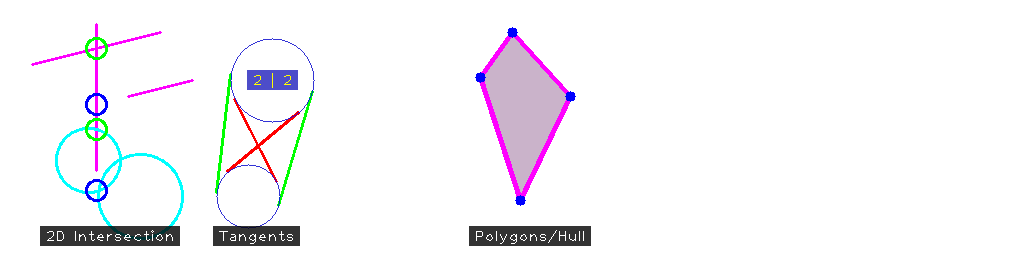
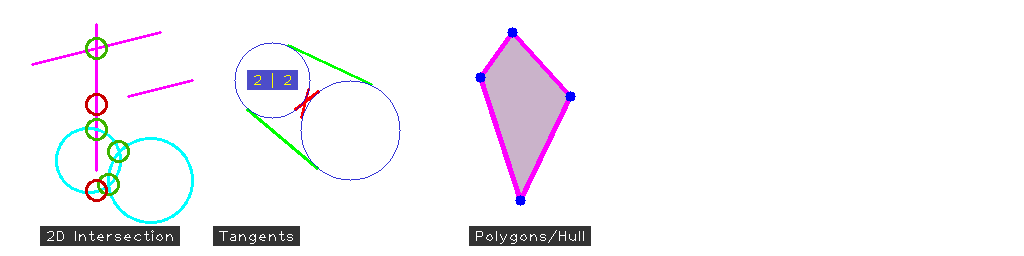
circle intersection & draw +/x markers

diff --git a/src/python3/bindings/math2d.cpp b/src/python3/bindings/math2d.cpp
@@ -93,14 +93,28 @@ py::tuple IsPointLeftOfLine(const cv::Vec2d &pt, const geo2d::Line2d &line)
 py::tuple IntersectionLineCircle(const geo2d::Line2d &line, const cv::Vec2d &center, double radius)
 {
   cv::Vec2d intersection1, intersection2;
-  int num_intersections = geo2d::IntersectionLineCircle(line, center, radius, intersection1, intersection2);
+  const int num_intersections = geo2d::IntersectionLineCircle(line, center, radius, intersection1, intersection2);
   if (num_intersections == 0)
     return py::make_tuple(num_intersections, py::none(), py::none());
   if (num_intersections == 1)
     return py::make_tuple(num_intersections, intersection1, py::none());
   if (num_intersections == 2)
     return py::make_tuple(num_intersections, intersection1, intersection2);
-  VCP_ERROR("Invalid number (" + std::to_string(num_intersections) + ") of intersection points!");
+  VCP_ERROR("VCP library returned invalid number (" + std::to_string(num_intersections) + ") of intersection points!");
+}
+
+
+py::tuple IntersectionCircleCircle(const cv::Vec2d &center1, const double radius1, const cv::Vec2d &center2, const double radius2)
+{
+  cv::Vec2d intersection1, intersection2;
+  const int num_intersections = geo2d::IntersectionCircleCircle(center1, radius1, center2, radius2, intersection1, intersection2);
+  if (num_intersections <= 0)
+    return py::make_tuple(num_intersections, py::none(), py::none());
+  if (num_intersections == 1)
+    return py::make_tuple(num_intersections, intersection1, py::none());
+  if (num_intersections == 2)
+    return py::make_tuple(num_intersections, intersection1, intersection2);
+  VCP_ERROR("VCP library returned invalid number (" + std::to_string(num_intersections) + ") of intersection points!");
 }
 
 
@@ -487,12 +501,26 @@ PYBIND11_MODULE(math2d, m)
 
 
   m.def("is_point_in_circle", &vpmg::IsPointInCircle,
-        "Checks if given point lies within (or exactly on) the circle.\n"
+        "Checks if given point lies within (or exactly on) the circle.\n\n"
         ":param pt: (x,y) point to test.\n"
         ":param center: (cx,cy) of the circle.\n"
-        ":param radius: radius of the circle."
+        ":param radius: radius of the circle.\n"
         ":return: tuple of two boolean flags: (in_or_on, exactly_on)",
         py::arg("pt"), py::arg("center"), py::arg("radius"));
+
+
+  m.def("intersection_circle_circle", &vpmg::IntersectionCircleCircle,
+        "Computes the intersection points of the two circles.\n\n"
+        ":param c1: center of first circle as tuple(x,y).\n"
+        ":param r1: radius of first circle as float.\n"
+        ":params c2, r2: center and radius of second circle.\n"
+        ":return: tuple(num_intersect, ip1, ip2), where num_intersect\n"
+        "         can be -1 (infinitely many), 0 (circles too far away or\n"
+        "         one inside the other), 1 (circles touch in one point) or\n"
+        "         2 (standard intersection); ip1 and ip2 are the intersection\n"
+        "         points as tuple(x,y) or None.",
+        py::arg("c1"), py::arg("r1"),
+        py::arg("c2"), py::arg("r2"));
 
 
   m.def("transverse_common_tangents_circles", &vpmg::TransverseCommonTangentsBetweenCircles,

diff --git a/src/cpp/vcp_imvis/drawing.cpp b/src/cpp/vcp_imvis/drawing.cpp
@@ -1231,6 +1231,83 @@ void DrawPoints(cv::Mat &image, const std::vector<cv::Point> &points, const cv::
 }
 
 
+void DrawCrosses(cv::Mat &image, const std::vector<cv::Point> &points, const std::vector<cv::Scalar> &colors,
+                 int diagonal, int line_width, int dash_length, double alpha, bool vertical)
+{
+  VCP_LOG_DEBUG("DrawCrosses() with different colors.");
+  VCP_CHECK(points.size() == colors.size());
+  VCP_CHECK(alpha >= 0.0 && alpha <= 1.0);
+
+  cv::Mat draw_on = image.clone();
+  const double dh = diagonal / 2.0;
+  for (size_t i = 0; i < points.size(); ++i)
+  {
+    cv::Point p1, p2, p3, p4;
+    if (vertical)
+    {
+      // Draw a plus sign, vertical line:
+      p1.x = points[i].x;
+      p1.y = static_cast<int>(points[i].y - dh);
+      p2.x = p1.x;
+      p2.y = static_cast<int>(points[i].y + dh);
+      // Horizontal line.
+      p3.x = static_cast<int>(points[i].y - dh);
+      p3.y = points[i].y;
+      p4.x = static_cast<int>(points[i].x + dh);
+      p4.y = p3.y;
+    }
+    else
+    {
+      // Draw a cross, top-left to bottom-right:
+      p1.x = static_cast<int>(points[i].x - dh);
+      p1.y = static_cast<int>(points[i].y - dh);
+      p2.x = static_cast<int>(points[i].x + dh);
+      p2.y = static_cast<int>(points[i].y + dh);
+      // Bottom-left to top-right.
+      p3.x = p1.x;
+      p3.y = p2.y;
+      p4.x = p2.x;
+      p4.y = p1.y;
+    }
+    if (dash_length > 0)
+    {
+      DrawDashedLine(p1, p2, colors[i], dash_length, line_width, image);
+      DrawDashedLine(p3, p4, colors[i], dash_length, line_width, image);
+    }
+    else
+    {
+      cv::line(image, p1, p2, colors[i], line_width);
+      cv::line(image, p3, p4, colors[i], line_width);
+    }
+  }
+
+  if (alpha < 1.0)
+    cv::addWeighted(draw_on, alpha, image, 1.0-alpha, 0.0, image);
+  else
+    image = draw_on;
+}
+
+
+void DrawCrosses(cv::Mat &image, const std::vector<cv::Point> &points,
+                 const cv::Scalar &color, int diagonal, int line_width,
+                 int dash_length, double alpha, bool vertical, bool flip_color_channels)
+{
+  VCP_LOG_DEBUG("DrawCrosses() with single color.");
+  std::vector<cv::Scalar> colors;
+  colors.reserve(points.size());
+  const bool valid_color = !((color[0] < 0.0) || (color[1] < 0.0) || (color[2] < 0.0));
+  for (size_t i = 0; i < points.size(); ++i)
+  {
+    const cv::Scalar ptcolor = valid_color ? color : kExemplaryColors[i % kExemplaryColorsSize];
+    if (flip_color_channels)
+      colors.push_back(cv::Scalar(ptcolor.val[2], ptcolor.val[1], ptcolor.val[0]));
+    else
+      colors.push_back(ptcolor);
+  }
+
+  DrawCrosses(image, points, colors, diagonal, line_width, dash_length, alpha, vertical);
+}
+
 void DrawEllipse(cv::Mat &image, const cv::RotatedRect &rect, const cv::Scalar &color, int line_width, double fill_opacity)
 {
   VCP_LOG_DEBUG("DrawEllipse()");

diff --git a/src/python3/bindings/imvis_cpp.cpp b/src/python3/bindings/imvis_cpp.cpp
@@ -269,7 +269,32 @@ cv::Mat DrawRotatedBoundingBoxes2D(const cv::Mat &image, const std::vector<vcp::
   return img;
 }
 
-//TODO make DrawCrosses()
+cv::Mat DrawCrosses(const cv::Mat &image, const std::vector<cv::Point> &points, const py::object &py_color,
+                   int diagonal, int line_width, int dash_length, bool vertical, double alpha)
+{
+  cv::Mat img = image.clone();
+
+  if (py::isinstance<py::list>(py_color))
+  {
+    const py::list list = py_color.cast<py::list>();
+    if (py::len(list) != points.size())
+      throw std::runtime_error("Lengths of points and corresponding colors doesn't match!");
+
+    std::vector<cv::Scalar> colors;
+    for (size_t i = 0; i < points.size(); ++i)
+      colors.push_back(vcp::python::conversion::PyObjectToScalar(list[i], nullptr));
+
+    vcp::imvis::drawing::DrawCrosses(img, points, colors, diagonal, line_width, dash_length, alpha, vertical);
+  }
+  else
+  {
+    const cv::Scalar single_color = vcp::python::conversion::PyObjectToScalar(py_color, nullptr);
+    vcp::imvis::drawing::DrawCrosses(img, points, single_color, diagonal, line_width, dash_length, alpha, vertical, false);
+  }
+
+  return img;
+}
+
 cv::Mat DrawPoints(const cv::Mat &image, const std::vector<cv::Point> &points, const py::object &py_color,
                    int radius, int line_width, double alpha)
 {
@@ -810,6 +835,13 @@ PYBIND11_MODULE(imvis_cpp, m)
         "C++ part of draw_points().",
         py::arg("image"), py::arg("points"), py::arg("color"),
         py::arg("radius"), py::arg("line_width"), py::arg("opacity"));
+
+
+  m.def("draw_crosses__", &vpi::DrawCrosses,
+        "C++ part of draw_crosses().",
+        py::arg("image"), py::arg("points"), py::arg("color"),
+        py::arg("diagonal"), py::arg("line_width"), py::arg("dash_length"),
+        py::arg("vertical"), py::arg("opacity"));
 
 
   m.def("draw_circles", &vpi::DrawCircles,

diff --git a/src/python3/vcp/imvis.py b/src/python3/vcp/imvis.py
@@ -300,3 +300,39 @@ def draw_points(image, points, color=(-1.0,-1.0,-1.0), radius=5, line_width=-1, 
         raise ValueError('draw_points expects a list or numpy.ndarray as input')
     return draw_points__(image, pts, color, radius, line_width, opacity)
 
+
+def draw_crosses(
+        image, points, color=(-1.0,-1.0,-1.0), diagonal=15, line_width=1,
+        vertical=False, dash_length=-1, opacity=1.0):
+    """Draw +/x at the 2xN points given as numpy array or list of (x,y) tuples onto the image.
+
+    :param image: input image.
+
+    :param points: 2xN numpy.array or list of tuples: [(x0,y0), (x1,y1), ...].
+
+    :param color: may be a single RGB(A)/BGR(A) tuple or a list of RGB/BGR tuples.
+                  If it's a single tuple and (-1,-1,-1), the crosses will be drawn
+                  by alternating colors.
+                  If it's a list of tuples, points[i] will be drawn with color[i].
+                  Otherwise (color is a single tuple), all points are drawn with 
+                  the same color.
+    
+    :param diagonal:   diagonal/line length (int) of the crosses.
+
+    :param line_width: line thickness (int).
+
+    :param vertical:    True if you want to draw '+', otherwise 'x' will be drawn.
+
+    :param dash_length: lines will be dashed if > 0 (int).
+
+    :param opacity:    opacity in [0,1]
+
+    :return: image (numpy.array)
+    """
+    if type(points) is np.ndarray:
+        pts = [(points[0,i], points[1,i]) for i in range(points.shape[1])]
+    elif type(points) is list:
+        pts = points
+    else:
+        raise ValueError('draw_crosses expects a list or numpy.ndarray as input')
+    return draw_points__(image, pts, color, diagonal, line_width, vertical, dash_length, opacity)

diff --git a/src/cpp/vcp_math/geometry2d.cpp b/src/cpp/vcp_math/geometry2d.cpp
@@ -878,6 +878,44 @@ bool CircleFrom3Points(const cv::Vec2d &pt1, const cv::Vec2d &pt2, const cv::Vec
 }
 
 
+int IntersectionCircleCircle(const cv::Vec2d &center1, const double radius1,
+                             const cv::Vec2d &center2, const double radius2,
+                             cv::Vec2d &intersection1, cv::Vec2d &intersection2)
+{
+  const double dist = Distance(center1, center2);
+  // Too far apart?
+  if (dist > (radius1 + radius2))
+    return 0;
+  // One circle contained within the other?
+  if (dist < std::fabs(radius1 - radius2))
+    return 0;
+  if (math::eps_zero(dist) && math::eps_equal(radius1, radius2))
+    return -1;
+
+  const double dist_sqr = dist * dist;
+  const double r1_sqr = radius1 * radius1;
+  const double r2_sqr = radius2 * radius2;
+  const double r1smr2s = r1_sqr - r2_sqr;
+  const double a = r1smr2s / (2 * dist_sqr);
+  const double c = std::sqrt(2.0 * (radius1*radius1 + radius2*radius2) / dist_sqr - (r1smr2s * r1smr2s) / (dist_sqr*dist_sqr) - 1.0);
+
+  const double fx = (center1[0]+center2[0]) / 2.0 + a * (center2[0] - center1[0]);
+  const double gx = c * (center2[1] - center1[1]) / 2.0;
+  const double ix1 = fx + gx;
+  const double ix2 = fx - gx;
+
+  const double fy = (center1[1]+center2[1]) / 2.0 + a * (center2[1] - center1[1]);
+  const double gy = c * (center1[0] - center2[0]) / 2.0;
+  const double iy1 = fy + gy;
+  const double iy2 = fy - gy;
+
+  intersection1 = cv::Vec2d(ix1, iy1);
+  if (math::eps_zero(gx) && math::eps_zero(gy))
+    return 1;
+  intersection2 = cv::Vec2d(ix2, iy2);
+  return 2;
+}
+
 
 Line2d ClipLineByRectangle(const Line2d &line, const cv::Rect2d &rect)
 {

diff --git a/src/cpp/vcp_imvis/drawing.h b/src/cpp/vcp_imvis/drawing.h
@@ -203,6 +203,24 @@ void DrawPoints(cv::Mat &image, const std::vector<cv::Point> &points, const std:
 void DrawPoints(cv::Mat &image, const std::vector<cv::Point> &points, const cv::Scalar &color=cv::Scalar::all(-1.0), int radius=5, int line_width=-1, double alpha=1.0, bool flip_color_channels=false);
 
 
+/** @brief Draw x/+ marks at the given points, potentially transparent.
+ *
+ * Use the convenience overload which assigns a single (or alternating) color(s).
+ * Provide length of diagonal (in pixels).
+ * Provide line width in pixels.
+ * Dash length > 0 to draw crosses dashed.
+ * Set vertical true to draw "+", otherwise "x".
+ * Alpha = 0 (not visible), alpha=1 (fully opaque).
+ */
+void DrawCrosses(cv::Mat &image, const std::vector<cv::Point> &points, const std::vector<cv::Scalar> &colors, int diagonal=15, int line_width=1, int dash_length=0, double alpha=1.0, bool vertical=true);
+
+
+/** @brief Convenience function to DrawCrosses(...) which assigns a single color (if color is a valid cv::Scalar) or alternating colors from kExemplaryColors (if color=(-1,-1,-1)).
+ * flip_color_channels: if input image is RGB (instead of BGR), you can also adjust the exemplary colors by setting the flip flag to true (since they are defined as RGB).
+ */
+void DrawCrosses(cv::Mat &image, const std::vector<cv::Point> &points, const cv::Scalar &color=cv::Scalar::all(-1.0), int diagonal=15, int line_width=1, int dash_length=0, double alpha=1.0, bool vertical=true, bool flip_color_channels=false);
+
+
 /** @brief Draws the given circles.
  * If thickness < 0, the circle will be filled. Otherwise the contour will be
  * drawn with this line width.

diff --git a/examples/python3/geometry_demo.py b/examples/python3/geometry_demo.py
@@ -48,7 +48,7 @@ def demo_intersect(img):
     l3 = ((128, 96), (192, 80)) # bottom slanted line
     lines = [l1, l2, l3]
     c1 = ((88, 160), 32) # Center, radius 
-    c2 = ((140, 196), 42)
+    c2 = ((150, 180), 42)
     circles = [c1, c2]
 
     intersection_points = list() # "Real" intersection points
@@ -86,14 +86,15 @@ def demo_intersect(img):
     assert intersect[0] == 0
 
     ##### Circle-Circle intersections
-    #TODO
+    intersect = math2d.intersection_circle_circle(*c1, *c2)
+    _app(intersection_points, intersect)
     
     ##### Draw
     img = imvis.draw_circles(img, [c[0] for c in circles], [c[1] for c in circles],
         default_color=(0, 255, 255), thickness=2)
     # TODO use draw_crosses
-    img = imvis.draw_points(img, intersection_points, color=(0, 255, 0), radius=10, line_width=2, opacity=1)
-    img = imvis.draw_points(img, wannabe_intersection_points, color=(0, 0, 255), radius=10, line_width=2, opacity=1)
+    img = imvis.draw_points(img, intersection_points, color=(60, 180, 0), radius=10, line_width=2, opacity=1)
+    img = imvis.draw_points(img, wannabe_intersection_points, color=(200, 0, 0), radius=10, line_width=2, opacity=1)
     # Add label
     return imvis.draw_text_box(img, '2D Intersection',
             (110, img.shape[0]-10),
@@ -103,8 +104,8 @@ def demo_intersect(img):
 
 
 def demo_tangents(img):
-    c1 = ((272, 80), 42) # Center, radius 
-    c2 = ((248, 196), 32)
+    c1 = ((272, 80), 38) # Center, radius 
+    c2 = ((350, 130), 50)
     img = _tangent_helper(img, *c1, *c2)
     # Add label
     return imvis.draw_text_box(img, 'Tangents',

diff --git a/src/cpp/vcp_math/geometry2d.h b/src/cpp/vcp_math/geometry2d.h
@@ -237,9 +237,20 @@ bool IntersectionLineSegmentLineSegment(const Line2d &a, const Line2d &b, cv::Ve
 int IntersectionLineCircle(const Line2d &a, const cv::Vec2d &center, double radius, cv::Vec2d &intersection1, cv::Vec2d &intersection2);
 // Collision detection via projection: https://stackoverflow.com/questions/1073336/circle-line-segment-collision-detection-algorithm
 
+/** @brief Checks if the line segment intersects the circle and sets intersection points accordingly.
+ * @return Number of intersection points, i.e. 0, 1, or 2.
+ */
 int IntersectionLineSegmentCircle(const Line2d &a, const cv::Vec2d &center, double radius, cv::Vec2d &intersection1, cv::Vec2d &intersection2);
 
+/** @brief Constructs the circle such that all 3 points lie radius away from the center. If no such circle exists, returns false. */
 bool CircleFrom3Points(const cv::Vec2d &pt1, const cv::Vec2d &pt2, const cv::Vec2d &pt3, cv::Vec2d &center, double &radius);
+
+
+/** @brief Checks if the circles intersect and sets the intersection points accordingly.
+ * @return Number of intersection points, i.e. -1 (infinitely many intersection points), 0, 1, or 2.
+ */
+int IntersectionCircleCircle(const cv::Vec2d &center1, const double radius1, const cv::Vec2d &center2, const double radius2, cv::Vec2d &intersection1, cv::Vec2d &intersection2);
+
 
 /** @brief Clips the line such that only the part within the rectangle remains. Check result.empty() afterwards. */
 Line2d ClipLineByRectangle(const Line2d &line, const cv::Rect2d &rect);

diff --git a/examples/python3/test_math.py b/examples/python3/test_math.py
@@ -140,6 +140,7 @@ def test_point_line_distance3d():
         dist = math3d.distance3d_point_line(pt, line)
         assert dist == pytest.approx(expected_line[i], 1e-4)
 
+#TODO test is_point_in_circle intersection_circle_circle, etc.
 
 def test_rdp():
     # RDP polyline simplification:
